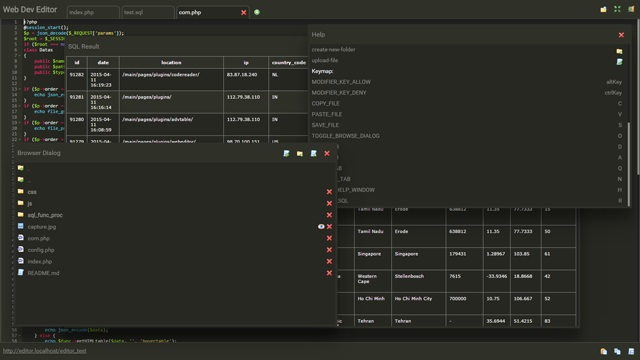
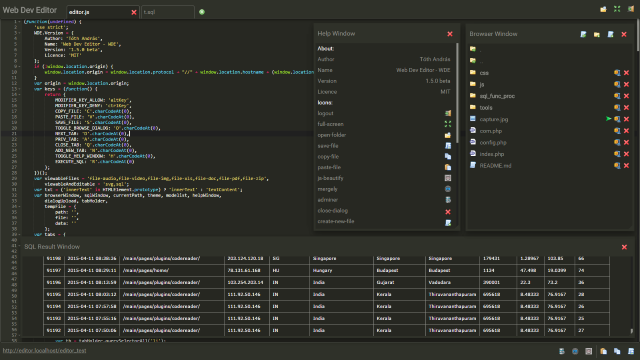
Version 1.4.0 beta
new function, Create zip file from file or folder

diff --git a/js/editor.js b/js/editor.js
@@ -3,7 +3,7 @@
     WDE.Version = {
         Author: 'Tóth András',
         Name: 'Web Dev Editor - WDE',
-        Version: '1.3.0 beta',
+        Version: '1.4.0 beta',
         Licence: 'MIT'
     };
     if (!window.location.origin) {
@@ -182,7 +182,7 @@
         [].forEach.call(data, function(item) {
             var str = '';
             var li = document.createElement('li');
-            if (item.type != 'navigator') str = '<span class="delete" onclick="WDE.deleteFile(event);"></span>';
+            if (item.type != 'navigator') str = '<span class="delete" onclick="WDE.deleteFile(event);"></span><span class="create-zip" onclick="WDE.zipFile(event);"></span>';
             if (item.type != 'navigator' && viewableFiles.split(',').indexOf(item.type) !== -1) str += '<span class="file-execute" onclick="WDE.fileExecute(event);"></span>';
             li.innerHTML = '<a data-path="' + item.path + '" class="' + item.type + '">' + item.name + str + '</a>';
             ul.appendChild(li);
@@ -276,7 +276,7 @@
             var repeat = Array.prototype.filter.call(ul.children, function(b) {
                 return b.children[0][txt] == list[i].className.replace('icon', '');
             });
-            if (repeat.length === 0) createAndAppendTo('li', '<a>' + list[i].className.replace('icon', '') + '<span class="' + list[i].className + '"></span></a>', ul);
+            if (repeat.length === 0 && list[i].className != 'separator') createAndAppendTo('li', '<a>' + list[i].className.replace('icon', '') + '<span class="' + list[i].className + '"></span></a>', ul);
         }
         createAndAppendTo('li', '<a style="color:white;">Keymap:</a>', ul);
         for (i in keys) {
@@ -425,8 +425,28 @@
         e.stopPropagation();
         var el = e.target.parentElement;
         if (viewableFiles.split(',').indexOf(el.className) !== -1) {
-            window.open([origin, el.getAttribute('data-path'), el[txt]].join('/'));
+            window.open(origin + [el.getAttribute('data-path'), el[txt]].join('/'));
         }
+    };
+    WDE.zipFile = function(e) {
+        e.preventDefault();
+        e.stopPropagation();
+        var el = e.target.parentElement;
+        new Util.Ajax().POST('com.php', {
+            params: {
+                order: 'create_zip',
+                path: el.getAttribute('data-path'),
+                file: el[txt]
+            }
+        }, function(e) {
+            if (e.statusText == 'OK' && !isNaN(Number(e.responseText))) {
+                e.statusState = 'OK';
+                showHideDialog(e, ' zipped ');
+            } else {
+                e.statusState = 'Failed';
+                showHideDialog(e, ' zipped ');
+            }
+        }, true);
     };
     WDE.copyFile = function() {
         if (!tabs.getSelected()) return;

diff --git a/css/style.css b/css/style.css
@@ -5,7 +5,7 @@ body {
     width:100%;
     height:100%;
     position:absolute;
-    background:#2f3129;
+    background: #272822;
     overflow:hidden;
     font:14px/normal source-code-pro,Roboto,Monaco,Menlo,"Ubuntu Mono",Consolas,monospace
 }
@@ -34,6 +34,7 @@ body pre {
 }
 
 .header h3 {
+    line-height: 1.8;
     float:left;
     display:inline-block
 }
@@ -244,6 +245,7 @@ body pre {
 }
 
 .delete:before {
+    margin-left:2px;
     padding:2px;
     cursor:pointer;
     float:right;
@@ -251,10 +253,19 @@ body pre {
 }
 
 .file-execute::before {
+    margin-left:2px;
     padding:2px;
     cursor:pointer;
     float:right;
-    content:url(icons/eye.png)
+    content:url(icons/go.png)
+}
+
+.create-zip::before {
+    margin-left:2px;
+    padding:2px;
+    cursor:pointer;
+    float:right;
+    content:url(icons/zip.png)
 }
 
 .file-sql::before {
@@ -352,11 +363,24 @@ body pre {
     background:#272822
 }
 
-.normal-screen::before,.full-screen::before,.logout::before,.save-file::before,.copy-file::before,.paste-file::before,.open-folder::before {
+.normal-screen::before,.full-screen::before,.logout::before,.save-file::before,.copy-file::before,.paste-file::before,.open-folder::before,.mergely::before,
+.adminer::before, .js-beautify::before {
     height:32px;
     vertical-align:middle;
     position:relative;
     padding:4px 8px
+}
+
+.adminer::before {
+	content:url(icons/ems.png)
+}
+
+.mergely::before{
+    content:url(icons/mergely.png)
+}
+
+.js-beautify::before {
+	content:url(icons/jsbeautify.png)
 }
 
 .open-folder::before {
@@ -445,6 +469,14 @@ body pre {
     top:3px;
     margin-left:10px;
     content:url(icons/exclamation.png)
+}
+
+.separator{
+	margin-left: 2px;
+    width: 1px;
+    background: rgb(89, 90, 83);
+    float: right;
+    height: 100%;
 }
 
 .hidden {

diff --git a/js/util.js b/js/util.js
@@ -295,10 +295,10 @@
             parentElement = document.querySelector(parent);
             header = dialog.querySelector(drag);
             grip = dialog.querySelector(resizeGrip);
-            header.addEventListener('mousedown', mouseDownForMoveEvent);
-            parentElement.addEventListener('mouseup', mouseUpEvent);
-            parentElement.addEventListener('mousemove', mouseMoveEvent, true);
-            if (grip) grip.addEventListener('mousedown', mouseDownEventResize, true);
+            header.addEventListener('mousedown', mouseDownForMoveEvent, false);
+            parentElement.addEventListener('mouseup', mouseUpEvent, false);
+            parentElement.addEventListener('mousemove', mouseMoveEvent, false);
+            if (grip) grip.addEventListener('mousedown', mouseDownEventResize, false);
         };
         var destroy = function() {
             header.removeEventListener('mousedown', mouseDownForMoveEvent);

diff --git a/index.php b/index.php
@@ -63,38 +63,39 @@ if (isset($_SESSION['user'])) {
         <ul class="tab-holder">
             <li class="add-new"></li>
         </ul>
-        <span class="icon logout" onclick="document.querySelector('button').click()"></span>
-        <span class="icon full-screen" onclick="WDE.toggleFullScreen(this);"></span>
-        <span class="icon open-folder" onclick="WDE.toggleBrowserDialog(undefined,true);"></span>
+        <span class="icon logout" onclick="document.querySelector('button').click()" title="logout"></span>
+        <span class="icon full-screen" onclick="WDE.toggleFullScreen(this);" title="full screen"></span>
+        <span class="icon open-folder" onclick="WDE.toggleBrowserDialog(undefined,true);" title="browser window"></span>
         <form action="." method="post"><button type="submit" name="logout"></button></form>
     </div>
     <pre></pre>
     <div class="footer no-select sh-1">
         <a id="current-path" target="_blank"></a>
-        <span class="icon save-file" onclick="WDE.saveFile();"></span>
-        <span class="icon copy-file" onclick="WDE.copyFile();"></span>
-        <span class="icon paste-file" onclick="WDE.pasteFile();"></span>
+        <span class="icon save-file" onclick="WDE.saveFile();" title="save file"></span>
+        <span class="icon copy-file" onclick="WDE.copyFile();" title="copy file"></span>
+        <span class="icon paste-file" onclick="WDE.pasteFile();" title="paste file"></span>
+        <span class="separator"></span>
     </div>
     <div class="dialog sh-2 no-select hidden" id="browser-window">
         <h3>Browser Window
-            <span class="icon close-dialog" onclick="WDE.toggleBrowserDialog(undefined, true);"></span>
-            <span class="icon create-new-file" onclick="WDE.createNewFile();"></span>
-            <span class="icon create-new-folder" onclick="WDE.createNewFolder();"></span>
-            <span class="icon upload-file" onclick="setTimeout(WDE.uploadFile());"></span>
+            <span class="icon close-dialog" onclick="WDE.toggleBrowserDialog(undefined, true);" title="close"></span>
+            <span class="icon create-new-file" onclick="WDE.createNewFile();" title="new file"></span>
+            <span class="icon create-new-folder" onclick="WDE.createNewFolder();" title="new folder"></span>
+            <span class="icon upload-file" onclick="setTimeout(WDE.uploadFile());" title="upload"></span>
         </h3>
         <div class="dialog-content"></div>
         <div class="grip"></div>
     </div>
     <div class="dialog sh-2 no-select hidden" id="help-window">
         <h3>Help Window
-            <span class="icon close-dialog" onclick="WDE.toggleHelperWindow();"></span>
+            <span class="icon close-dialog" onclick="WDE.toggleHelperWindow();" title="close"></span>
         </h3>
         <div class="dialog-content"></div>
         <div class="grip"></div>
     </div>
     <div class="dialog sh-2 no-select hidden" id="sql-window">
         <h3>SQL Result Window
-            <span class="icon close-dialog" onclick="this.parentElement.parentElement.classList.add('hidden');"></span>
+            <span class="icon close-dialog" onclick="this.parentElement.parentElement.classList.add('hidden');" title="close"></span>
         </h3>
         <div class="dialog-content"></div>
         <div class="grip"></div>
@@ -129,7 +130,8 @@ else {
             <input type="password" name="pass" placeholder="Password"><br><br>
             <label>Choose Editor theme</label><br>
             <select id="ace-theme" size="1" name="ace-theme">
-                <optgroup label="Bright"><option value="ace/theme/chrome">Chrome</option>
+                <optgroup label="Bright">
+                	<option value="ace/theme/chrome">Chrome</option>
                     <option value="ace/theme/clouds">Clouds</option>
                     <option value="ace/theme/crimson_editor">Crimson Editor</option>
                     <option value="ace/theme/dawn">Dawn</option>

diff --git a/com.php b/com.php
@@ -45,9 +45,9 @@ if ($p->order == 'delete') {
 }
 if ($p->order == 'test_sql') {
     $sql = $_SESSION['user']['SQL'];
-    if($sql['conn'] == ''){
-    	echo ('Database connection is not configured!');
-    	return;
+    if ($sql['conn'] == '') {
+        echo ('Database connection is not configured!');
+        return;
     }
     require_once ('sql_func_proc/sqlfuncproc.php');
     $func = SqlFuncProc::getInstance($sql['conn'], $sql['user'], $sql['pass']);
@@ -58,7 +58,11 @@ if ($p->order == 'test_sql') {
         echo $func->getHTMLtable($data, '', 'hovertable');
     }
 }
-
+if ($p->order == 'create_zip') {
+    $rootPath = $root . str_replace('.', '', $p->path) . DIRECTORY_SEPARATOR . $p->file;
+    $zipname = is_dir($rootPath) ? dirname($rootPath) . DIRECTORY_SEPARATOR . basename($rootPath) . '.zip' : dirname($rootPath) . DIRECTORY_SEPARATOR . basename($rootPath) . '.zip';
+    Zip($rootPath, $zipname);
+}
 function delete_folder($folder) {
     $glob = glob($folder);
     foreach ($glob as $g) {
@@ -116,4 +120,43 @@ function get_type($ext) {
     if (in_array($ext, explode(',', 'bmp,jpeg,jpg,gif,tiff,png,pcx,emf,rle,dib,webp,ico,svg'))) return 'file-img';
     if (in_array($ext, explode(',', 'zip,tgz,bgz,gz,tz,rar'))) return 'file-zip';
     return 'file-unknown';
+}
+function Zip($source, $destination, $include_dir = true) {
+    if (!extension_loaded('zip') || !file_exists($source)) {
+        return false;
+    }
+    if (file_exists($destination)) {
+        unlink($destination);
+    }
+    $zip = new ZipArchive();
+    if (!$zip->open($destination, ZIPARCHIVE::CREATE)) {
+        return false;
+    }
+    $source = str_replace('\\', DIRECTORY_SEPARATOR, realpath($source));
+    if (is_dir($source) === true) {        
+        $files = new RecursiveIteratorIterator(new RecursiveDirectoryIterator($source), RecursiveIteratorIterator::SELF_FIRST);
+        if ($include_dir) {
+            $arr = explode("/", $source);
+            $maindir = $arr[count($arr) - 1];
+            $source = "";
+            for ($i = 0; $i < count($arr) - 1; $i++) {
+                $source.= DIRECTORY_SEPARATOR . $arr[$i];
+            }
+            $source = substr($source, 1);
+            $zip->addEmptyDir($maindir);
+        }
+        foreach ($files as $file) {
+            $file = str_replace('\\', DIRECTORY_SEPARATOR, $file);
+            if (in_array(substr($file, strrpos($file, DIRECTORY_SEPARATOR) + 1), array('.', '..'))) continue;
+            $file = realpath($file);
+            if (is_dir($file) === true) {
+                $zip->addEmptyDir(str_replace($source . DIRECTORY_SEPARATOR, '', $file . DIRECTORY_SEPARATOR));
+            } else if (is_file($file) === true) {
+                $zip->addFromString(str_replace($source . DIRECTORY_SEPARATOR, '', $file), file_get_contents($file));
+            }
+        }
+    } else if (is_file($source) === true) {
+        $zip->addFromString(basename($source), file_get_contents($source));
+    }
+    return $zip->close();
 }

diff --git a/README.md b/README.md
@@ -21,6 +21,13 @@ Each user can be assigned:
 
 Version
 ----
+1.4.0 beta
+
+- Add new function, Create zip file from file or folder
+- Some invisible modification
+
+Version
+----
 1.3.0 beta
 
 - Scalable windows
